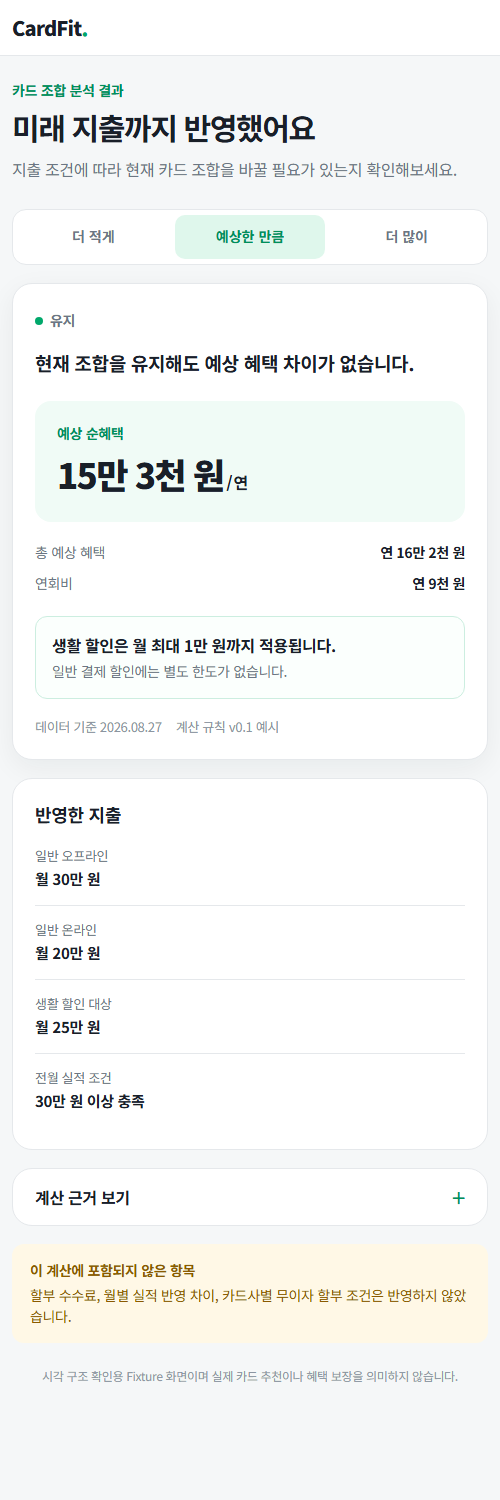
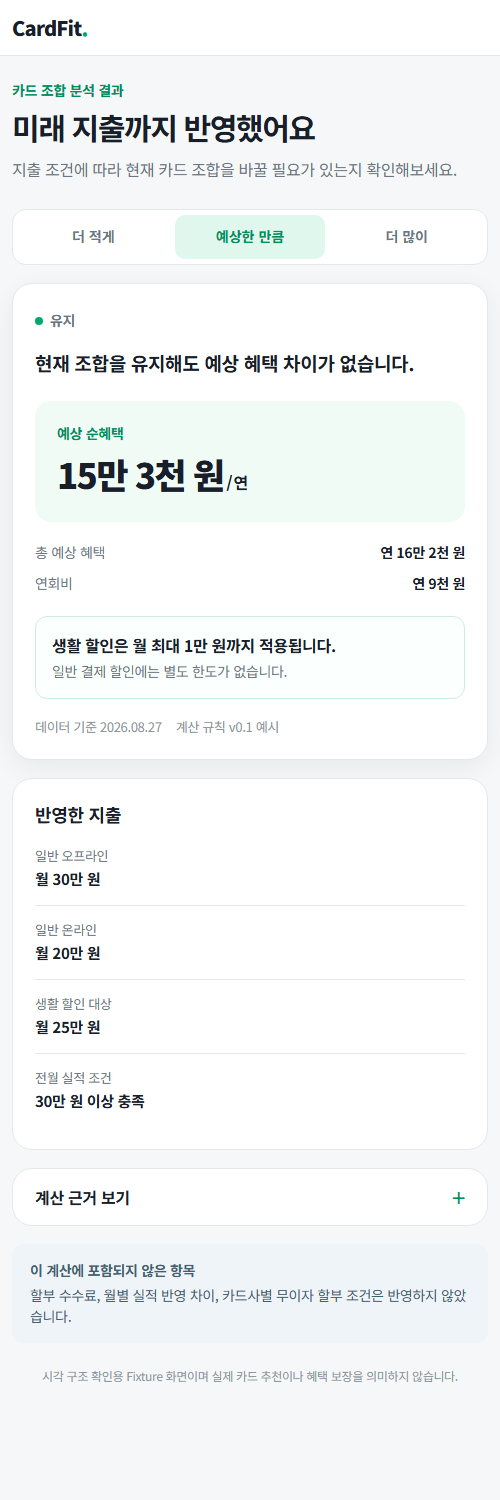
docs: remove yellow from CardFit visual studies

diff --git a/reports/CardFit_Lightmode_Color_Palette.html b/reports/CardFit_Lightmode_Color_Palette.html
@@ -16,8 +16,8 @@
         --primary: #00a873;
         --primary-strong: #008b60;
         --primary-soft: #eafaf3;
-        --warning: #8b5d00;
-        --warning-soft: #fff8e8;
+        --condition: #3f6170;
+        --condition-soft: #eef4f7;
         --danger: #d92d20;
         --danger-soft: #fff1f0;
       }
@@ -83,7 +83,7 @@
       .default p { color: var(--muted); }
       .primary { background: var(--primary); color: #fff; border-color: var(--primary); }
       .primary-soft { background: var(--primary-soft); color: var(--primary-strong); border-color: #cfefe1; }
-      .warning { background: var(--warning-soft); color: var(--warning); border-color: #f4e7c3; }
+      .condition { background: var(--condition-soft); color: var(--condition); border-color: #d8e4e9; }
       .danger { background: var(--danger-soft); color: var(--danger); border-color: #f5d4d0; }
 
       .button-row { display: flex; flex-wrap: wrap; gap: 10px; }
@@ -128,7 +128,7 @@
         <article class="sample default"><strong>기본 정보</strong><p>흰 표면 위에서 기본 글자와 보조 글자를 함께 사용합니다.</p></article>
         <article class="sample primary"><strong>주요 행동</strong><p>흰 글자와 녹색 배경의 조합입니다.</p></article>
         <article class="sample primary-soft"><strong>선택·강조 정보</strong><p>연한 녹색 위에는 강한 녹색 글자를 사용합니다.</p></article>
-        <article class="sample warning"><strong>확인이 필요한 정보</strong><p>경고는 성공·선택 상태와 색상으로 분리합니다.</p></article>
+        <article class="sample condition"><strong>확인이 필요한 정보</strong><p>파우더 블루로 선택 상태와 차분하게 구분합니다.</p></article>
         <article class="sample danger"><strong>처리할 수 없는 오류</strong><p>오류는 녹색과 혼동되지 않는 붉은 계열을 사용합니다.</p></article>
       </section>
 

diff --git a/reports/CardFit_Result_Lightmode_Prototype.html b/reports/CardFit_Result_Lightmode_Prototype.html
@@ -18,8 +18,8 @@
         --primary: #00a86b;
         --primary-dark: #008f5a;
         --primary-soft: #dff7ec;
-        --warning-bg: #fff8e6;
-        --warning-text: #8a5a00;
+        --notice-bg: #eef4f7;
+        --notice-text: #3f6170;
         --radius-sm: 12px;
         --radius-lg: 20px;
         --shadow: 0 8px 28px rgba(25, 31, 40, 0.06);
@@ -283,8 +283,8 @@
         margin-top: 18px;
         padding: 16px 18px;
         border-radius: var(--radius-sm);
-        background: var(--warning-bg);
-        color: var(--warning-text);
+        background: var(--notice-bg);
+        color: var(--notice-text);
         font-size: 14px;
       }
 
